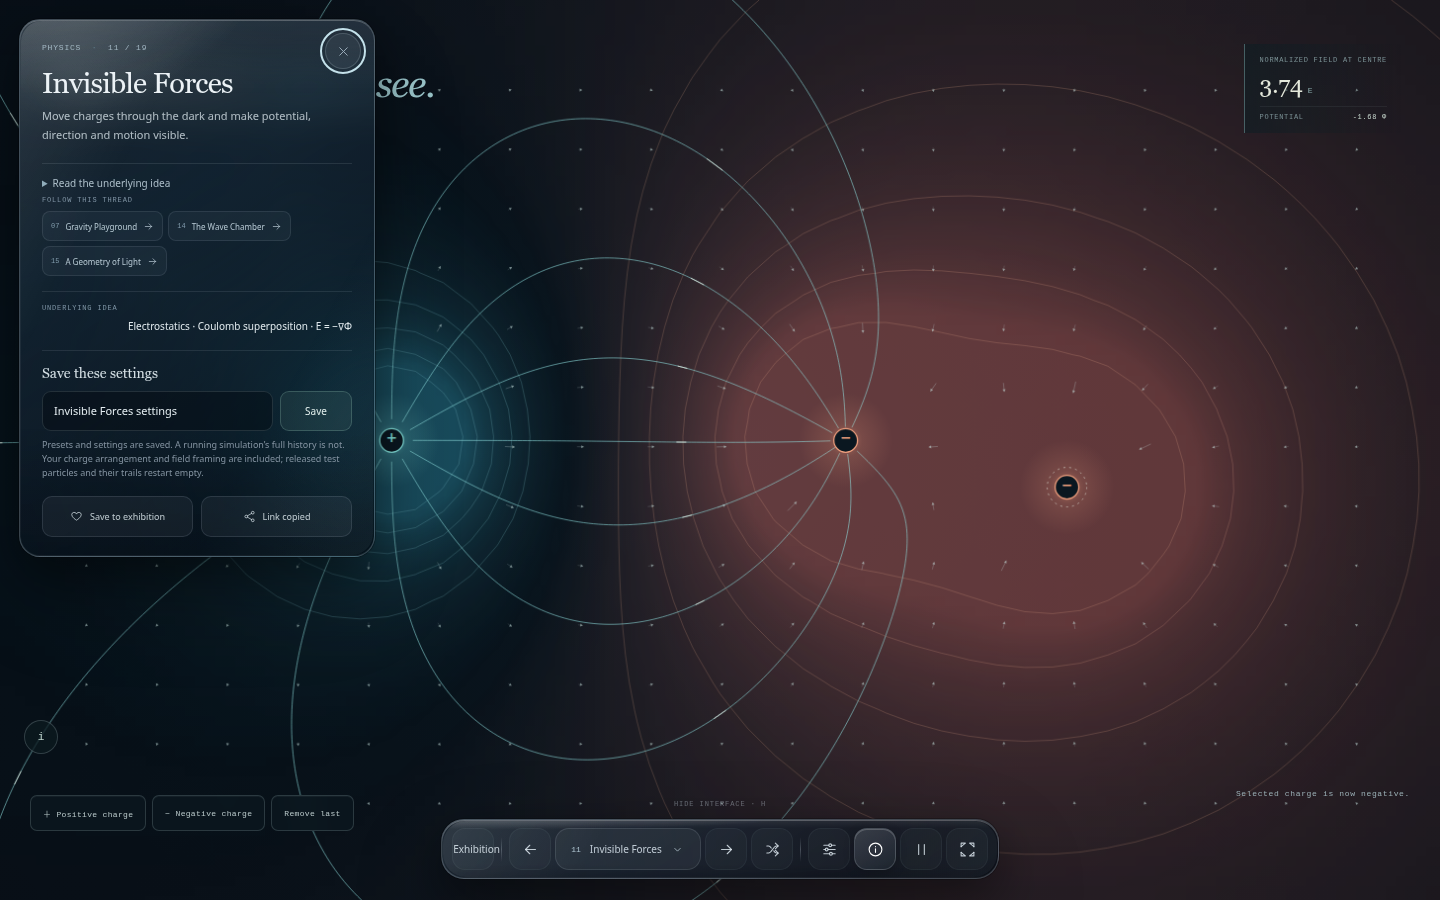
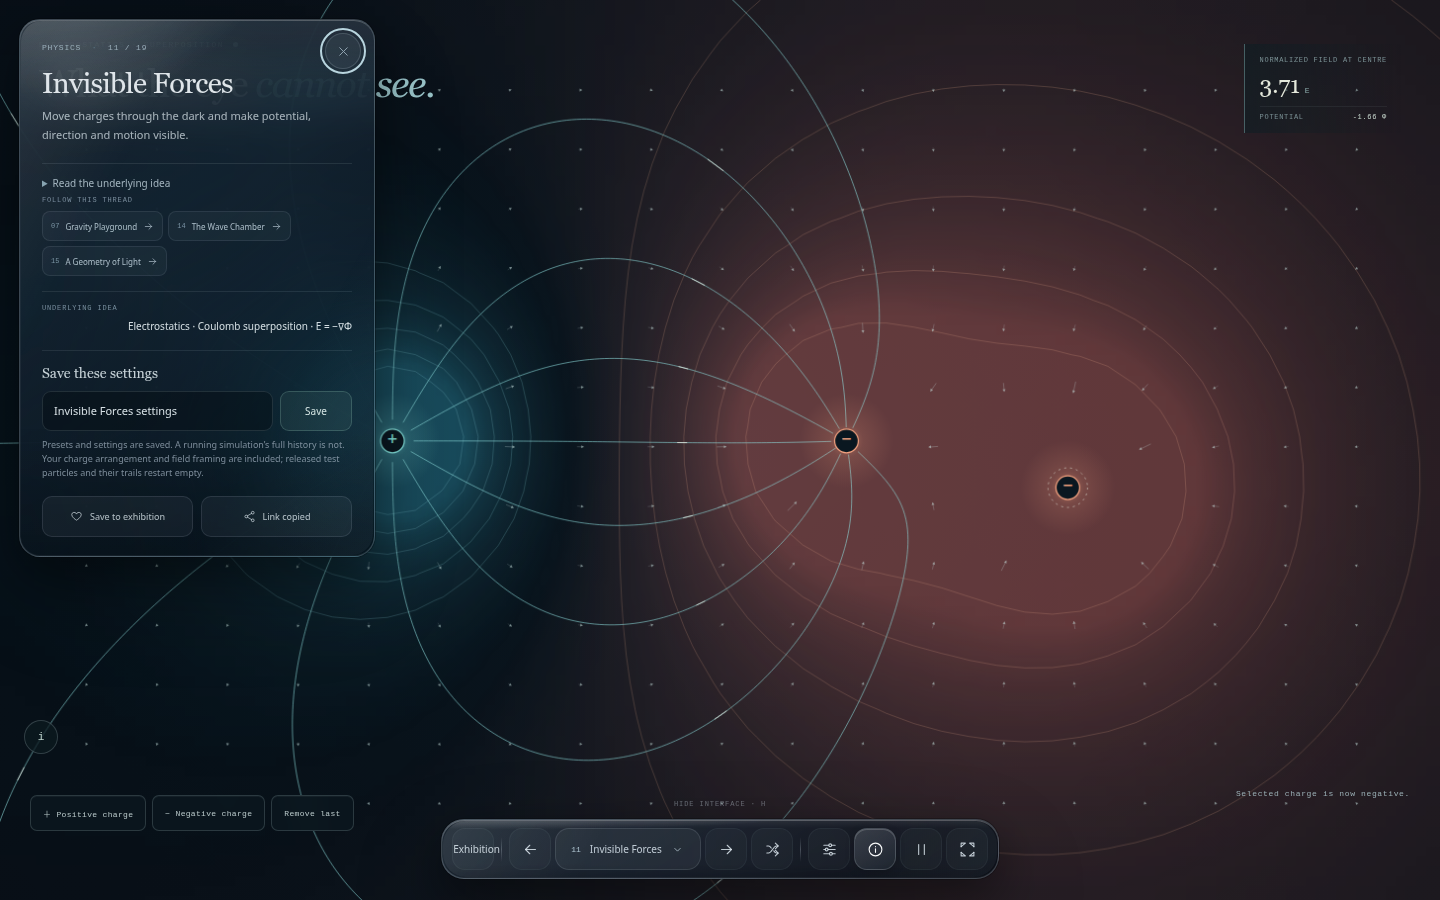
Replay edited Gravity Playground systems

Changed region(s): [[0.5625, 0.4667, 0.5938, 0.5289], [0.7188, 0.5289, 0.75, 0.56], [0.25, 0.4667, 0.2812, 0.4978]]

diff --git a/src/experiments/GravityPlayground.tsx b/src/experiments/GravityPlayground.tsx
@@ -1,7 +1,8 @@
-import { useEffect, useRef, useState } from 'react'
+import { useEffect, useMemo, useRef, useState } from 'react'
 import type { ExperimentControls } from '../types'
 import { ActionRow, ControlPanel, RangeControl, SelectControl } from '../components/Controls'
 import { useDiscoveryHint } from '../lib/useDiscoveryHint'
+import { MAX_GRAVITY_BODIES, nextGravityBodyId, restoreGravitySnapshot, restoreGravityView, type GravityBodyState } from '../lib/gravityState'
 import { boundedStateNumber, stateChoice } from '../lib/experimentState'
 import { bodyRadius, circularOrbitVelocity, estimateGravityThrowVelocity, gravityEnergy, integrateGravity, pickGravityBodyAtWorld, type CollisionMode, type GravityBody, type GravityPointerSample } from '../simulations/gravity'
 import './ExpandedExhibits.css'
@@ -51,16 +52,31 @@ export default function GravityPlayground({ paused, controlsVisible, stateFromUr
   const [launchSpeed, setLaunchSpeed] = useState(() => boundedStateNumber(stateFromUrl?.launchSpeed, 4, 0.5, 9))
   const [trails, setTrails] = useState(() => stateFromUrl?.trails !== false)
   const [prediction, setPrediction] = useState(() => stateFromUrl?.prediction === true)
+  const restoredGravity = Array.isArray(stateFromUrl?.bodies) ? restoreGravitySnapshot(stateFromUrl.bodies, stateFromUrl.view) : null
+  const restoredView = restoreGravityView(stateFromUrl?.view)
+  const initialBodies = useMemo(() => restoredGravity?.bodies.map((body) => ({ ...body, trail: [] })) ?? makeScene(scene), [])
+  const [bodySnapshot, setBodySnapshot] = useState<GravityBodyState[] | null>(() => restoredGravity?.bodies ?? null)
   const [launchMode, setLaunchMode] = useState(false)
   const [throwMode, setThrowMode] = useState(false)
   const [hovered, setHovered] = useState<number | null>(null)
   const [launchFeedback, setLaunchFeedback] = useState('')
   const [selected, setSelected] = useState<number | null>(null)
-  const [readout, setReadout] = useState({ bodies: 6, energy: '—' })
+  const [readout, setReadout] = useState({ bodies: initialBodies.length, energy: '—' })
   const params = useRef<Params>({ paused, speed, collision, trails, prediction })
   params.current = { paused, speed, collision, trails, prediction }
-  const state = useRef({ bodies: makeScene(scene), width: 0, height: 0, dpr: 1, scale: 70, cameraX: 0, cameraY: 0, raf: 0, last: 0, accumulator: 0, tick: 0, revision:0, pointer: null as GravityPointer | null })
+  const state = useRef({ bodies: initialBodies, width: 0, height: 0, dpr: 1, scale: 70, zoom: restoredView?.zoom ?? 1, cameraX: restoredView?.x ?? 0, cameraY: restoredView?.y ?? 0, raf: 0, last: 0, accumulator: 0, tick: 0, revision:0, pointer: null as GravityPointer | null })
   const view = useRef({ mass, selected, hovered, throwMode }); view.current = { mass, selected, hovered, throwMode }
+  const shareSettings = useRef({ scene, speed, collision, mass, launchSpeed, trails, prediction, bodySnapshot })
+  shareSettings.current = { scene, speed, collision, mass, launchSpeed, trails, prediction, bodySnapshot }
+  const publishShareState = (bodies: GravityBodyState[] | null = shareSettings.current.bodySnapshot) => {
+    const s = state.current, settings = shareSettings.current
+    onShareState({ scene: settings.scene, speed: settings.speed, collision: settings.collision, mass: settings.mass, launchSpeed: settings.launchSpeed, trails: settings.trails, prediction: settings.prediction, view: { x: s.cameraX, y: s.cameraY, zoom: s.zoom }, ...(bodies === null ? {} : { bodies }) })
+  }
+  const captureBodies = () => {
+    const bodies = state.current.bodies.map(({ id, x, y, vx, vy, mass: bodyMass, color }) => ({ id, x, y, vx, vy, mass: bodyMass, color }))
+    setBodySnapshot(bodies)
+    publishShareState(bodies)
+  }
 
   useEffect(() => {
     if (!import.meta.env.DEV) return
@@ -73,7 +89,7 @@ export default function GravityPlayground({ paused, controlsVisible, stateFromUr
     return () => { delete (window as Window & { __ARMSTEEL_GRAVITY__?: typeof inspect }).__ARMSTEEL_GRAVITY__ }
   }, [])
 
-  useEffect(() => { onShareState({ scene, speed, collision, mass, launchSpeed, trails, prediction }) }, [scene, speed, collision, mass, launchSpeed, trails, prediction, onShareState])
+  useEffect(() => { publishShareState() }, [scene, speed, collision, mass, launchSpeed, trails, prediction, bodySnapshot, onShareState])
   const resetScene = () => {
     const s = state.current
     s.bodies = makeScene(scene)
@@ -83,6 +99,9 @@ export default function GravityPlayground({ paused, controlsVisible, stateFromUr
     s.cameraX = 0
     s.cameraY = 0
     s.scale = s.width && s.height ? Math.min(s.width, s.height) / 10.4 : 70
+    s.zoom = 1
+    setBodySnapshot(null)
+    publishShareState(null)
     setSelected(null)
     setReadout({ bodies: s.bodies.length, energy: '—' })
     setLaunchMode(false)
@@ -91,14 +110,16 @@ export default function GravityPlayground({ paused, controlsVisible, stateFromUr
   const launchCircularBody = () => {
     const s = state.current
     const source = s.bodies.reduce<GravityBody | null>((largest, body) => !largest || body.mass > largest.mass ? body : largest, null)
-    if (s.bodies.length >= 32) { setLaunchFeedback('This scene is full. Reset it to launch another body.'); return }
+    if (s.bodies.length >= MAX_GRAVITY_BODIES) { setLaunchFeedback('This scene is full. Reset it to launch another body.'); return }
     const child = { id: 0, x: 0, y: 0, vx: 0, vy: 0, mass, color: '' }
     const radius = source ? Math.max(bodyRadius(source) + bodyRadius(child) + .16, source.mass / (22 * 22) * 1.1) : 1
     const x = source ? source.x + radius : 0, y = source?.y ?? 0
     const velocity = source ? circularOrbitVelocity(source, x, y) : { vx: launchSpeed, vy: 0 }
-    const body = { id: nextId++, x, y, ...velocity, mass, color: planetColors[nextId % planetColors.length], trail: [] }
+    const id = nextGravityBodyId(s.bodies, nextId); nextId = id + 1
+    const body = { id, x, y, ...velocity, mass, color: planetColors[id % planetColors.length], trail: [] }
     s.bodies.push(body); s.revision++; setSelected(body.id)
     setReadout({ bodies: s.bodies.length, energy: gravityEnergy(s.bodies).toFixed(1) })
+    captureBodies()
     setLaunchFeedback('Circular orbit launched around the most massive body.')
     hint.dismiss()
   }
@@ -109,13 +130,13 @@ export default function GravityPlayground({ paused, controlsVisible, stateFromUr
     let stars: { x: number; y: number; r: number; a: number }[] = []
     const resize = () => {
       const rect = canvas.getBoundingClientRect(); if (!rect.width || !rect.height) return
-      const oldW = s.width, oldH = s.height
       s.width = rect.width; s.height = rect.height
       s.dpr = Math.min(devicePixelRatio || 1, 1.6, Math.sqrt(2_200_000 / (rect.width * rect.height)))
       canvas.width = Math.max(1, Math.floor(rect.width * s.dpr)); canvas.height = Math.max(1, Math.floor(rect.height * s.dpr))
       ctx.setTransform(s.dpr, 0, 0, s.dpr, 0, 0)
-      if (oldW && oldH) s.scale *= Math.min(s.width, s.height) / Math.min(oldW, oldH)
-      else s.scale = Math.min(s.width, s.height) / 10.4
+      const baseScale = Math.min(s.width, s.height) / 10.4
+      s.zoom = clamp(s.zoom, 20 / baseScale, 480 / baseScale)
+      s.scale = baseScale * s.zoom
       let seed = 987
       const random = () => { seed = (seed * 16807) % 2147483647; return seed / 2147483647 }
       stars = Array.from({ length: Math.floor(rect.width * rect.height / 6200) }, () => ({ x: random() * s.width, y: random() * s.height, r: .35 + random() * .8, a: .14 + random() * .42 }))
@@ -219,7 +240,12 @@ export default function GravityPlayground({ paused, controlsVisible, stateFromUr
     return () => { cancelAnimationFrame(s.raf); resizeObserver.disconnect() }
   }, [])
 
-  useEffect(() => { resetScene() }, [scene])
+  const mountedScene = useRef(scene)
+  useEffect(() => {
+    if (mountedScene.current === scene) return
+    mountedScene.current = scene
+    resetScene()
+  }, [scene])
 
   const pointerDown = (event: React.PointerEvent<HTMLCanvasElement>) => {
     hint.dismiss()
@@ -268,6 +294,8 @@ export default function GravityPlayground({ paused, controlsVisible, stateFromUr
   const pointerUp = (event: React.PointerEvent<HTMLCanvasElement>) => {
     pointerMove(event)
     const s = state.current, p = s.pointer; if (!p || p.id !== event.pointerId) return
+    let bodyChanged = false
+    let cameraChanged = false
     if (p.mode === 'body') {
       const body = s.bodies.find((item) => item.id === p.bodyId)
       if (body) {
@@ -279,6 +307,7 @@ export default function GravityPlayground({ paused, controlsVisible, stateFromUr
         } else setLaunchFeedback('Repositioned · original momentum kept.')
       }
       s.revision++
+      bodyChanged = true
     }
     if (p.mode === 'launch') {
       const dragged = Math.hypot(p.worldX - p.startWorldX, p.worldY - p.startWorldY) > .08
@@ -291,15 +320,20 @@ export default function GravityPlayground({ paused, controlsVisible, stateFromUr
       const orbital = source ? circularOrbitVelocity(source, x, y) : { vx: launchSpeed, vy: 0 }
       const vx = dragged ? clamp((p.worldX - p.startWorldX) * launchSpeed, -22, 22) : orbital.vx
       const vy = dragged ? clamp((p.worldY - p.startWorldY) * launchSpeed, -22, 22) : orbital.vy
-      if (s.bodies.length < 32) {
-        const body = { id: nextId++, x, y, vx, vy, mass, color: planetColors[nextId % planetColors.length], trail: [] }
+      if (s.bodies.length < MAX_GRAVITY_BODIES) {
+        const id = nextGravityBodyId(s.bodies, nextId); nextId = id + 1
+        const body = { id, x, y, vx, vy, mass, color: planetColors[id % planetColors.length], trail: [] }
         s.bodies.push(body); s.revision++; setSelected(body.id); setReadout({ bodies: s.bodies.length, energy: gravityEnergy(s.bodies).toFixed(1) })
         setLaunchFeedback(dragged ? 'Custom velocity released · select the body to refine its orbit.' : 'Circular orbit launched around the most massive body.')
+        bodyChanged = true
       } else setLaunchFeedback('This scene is full. Reset it to launch another body.')
       setLaunchMode(false)
     }
+    if (p.mode === 'pan') cameraChanged = true
     s.pointer = null
     if (event.currentTarget.hasPointerCapture(event.pointerId)) event.currentTarget.releasePointerCapture(event.pointerId)
+    if (bodyChanged) captureBodies()
+    if (cameraChanged) publishShareState()
   }
   const cancelPointer = (pointerId: number) => {
     const s = state.current, p = s.pointer
@@ -309,6 +343,7 @@ export default function GravityPlayground({ paused, controlsVisible, stateFromUr
       if (body) { body.x = p.originalX; body.y = p.originalY; body.vx = p.originalVx; body.vy = p.originalVy }
       s.revision++
     }
+    if (p.mode === 'pan') publishShareState()
     if (p.mode === 'launch') setLaunchMode(false)
     s.pointer = null
     const canvas = canvasRef.current
@@ -318,15 +353,18 @@ export default function GravityPlayground({ paused, controlsVisible, stateFromUr
     event.preventDefault(); const s = state.current, rect = canvasRef.current?.getBoundingClientRect(); if (!rect) return; const x = event.clientX - rect.left, y = event.clientY - rect.top
     const beforeX = s.cameraX + (x - s.width / 2) / s.scale, beforeY = s.cameraY + (y - s.height / 2) / s.scale
     s.scale = clamp(s.scale * Math.exp(-event.deltaY * .001), 20, 480)
+    s.zoom = s.scale / (Math.min(s.width, s.height) / 10.4)
     s.cameraX = beforeX - (x - s.width / 2) / s.scale; s.cameraY = beforeY - (y - s.height / 2) / s.scale
+    publishShareState()
   }
   useEffect(() => { const canvas = canvasRef.current; if (!canvas) return; canvas.addEventListener('wheel', wheel, { passive: false }); return () => canvas.removeEventListener('wheel', wheel) }, [])
   const selectedBody = state.current.bodies.find((body) => body.id === selected)
-  const adjustSelected = (key: 'mass' | 'vx' | 'vy', value: number) => { const body=state.current.bodies.find((item)=>item.id===selected);if(!body)return;body[key]=value;state.current.revision++;setReadout({bodies:state.current.bodies.length,energy:gravityEnergy(state.current.bodies).toFixed(1)}) }
+  const adjustSelected = (key: 'mass' | 'vx' | 'vy', value: number) => { const body=state.current.bodies.find((item)=>item.id===selected);if(!body)return;body[key]=value;state.current.revision++;setReadout({bodies:state.current.bodies.length,energy:gravityEnergy(state.current.bodies).toFixed(1)});captureBodies() }
   const removeSelected = () => {
     if (selected === null) return
     state.current.bodies = state.current.bodies.filter((body) => body.id !== selected)
     state.current.revision++; setSelected(null); setReadout({ bodies: state.current.bodies.length, energy: gravityEnergy(state.current.bodies).toFixed(1) })
+    captureBodies()
     setLaunchFeedback('Selected body removed.')
   }
 

diff --git a/src/App.tsx b/src/App.tsx
@@ -573,7 +573,7 @@ function ExhibitExperience({ experiment }: { experiment: ExperimentDefinition })
         <label id="saved-experiment-form-heading" htmlFor="saved-experiment-name">Save these settings</label>
         <div><input id="saved-experiment-name" value={savedName} maxLength={64} onChange={(event) => { setSavedName(event.target.value); setSavedMessage('') }} aria-describedby="saved-experiment-note" />
           <button type="button" onClick={saveCurrentSettings} disabled={!savedName.trim()}>Save</button></div>
-        <p id="saved-experiment-note">Presets and settings are saved. A running simulation’s full history is not.{experiment.id === 'network' ? ' The message is included, so avoid private text.' : ''}{experiment.id === 'machine' ? ' Your edited assembly is included when you save or share; avoid private comments.' : ''}{experiment.id === 'logic' ? ' Your gates, wires, switch values and build goal are included; signal values are recalculated.' : ''}{experiment.id === 'forces' ? ' Your charge arrangement and field framing are included; released test particles and their trails restart empty.' : ''}{experiment.id === 'automata' ? ' Your last drawn cell arrangement is included and restarts at generation zero; cell ages and trails are not.' : ''}{experiment.id === 'reaction' ? ' The selected start pattern and seed are included; painted marks and evolved chemistry start fresh.' : ''}{experiment.id === 'fluid' ? ' The starting flow and settings are included; hand-drawn strokes and evolved dye are not.' : ''}</p>
+        <p id="saved-experiment-note">Presets and settings are saved. A running simulation’s full history is not.{experiment.id === 'network' ? ' The message is included, so avoid private text.' : ''}{experiment.id === 'machine' ? ' Your edited assembly is included when you save or share; avoid private comments.' : ''}{experiment.id === 'gravity' ? ' A changed system’s body positions, velocities and masses replay from the last edit; trails and collision history restart.' : ''}{experiment.id === 'logic' ? ' Your gates, wires, switch values and build goal are included; signal values are recalculated.' : ''}{experiment.id === 'forces' ? ' Your charge arrangement and field framing are included; released test particles and their trails restart empty.' : ''}{experiment.id === 'automata' ? ' Your last drawn cell arrangement is included and restarts at generation zero; cell ages and trails are not.' : ''}{experiment.id === 'reaction' ? ' The selected start pattern and seed are included; painted marks and evolved chemistry start fresh.' : ''}{experiment.id === 'fluid' ? ' The starting flow and settings are included; hand-drawn strokes and evolved dye are not.' : ''}</p>
         {savedMessage && <p className="saved-experiment-status" role="status">{savedMessage}</p>}
       </section>
       <div className="info-actions">

diff --git a/src/lib/gravityState.ts b/src/lib/gravityState.ts
@@ -1,0 +1,44 @@
+import type { GravityBody } from '../simulations/gravity'
+
+export type GravityBodyState = Pick<GravityBody, 'id' | 'x' | 'y' | 'vx' | 'vy' | 'mass' | 'color'>
+export type GravityView = { x: number; y: number; zoom: number }
+export type GravitySnapshot = { bodies: GravityBodyState[]; view: GravityView }
+
+export const MAX_GRAVITY_BODIES = 32
+const MAX_POSITION = 1_000_000
+const MAX_VIEW_ZOOM = 100
+
+const isRecord = (value: unknown): value is Record<string, unknown> => value !== null && typeof value === 'object' && (Object.getPrototypeOf(value) === Object.prototype || Object.getPrototypeOf(value) === null)
+const finiteWithin = (value: unknown, limit: number): value is number => typeof value === 'number' && Number.isFinite(value) && Math.abs(value) <= limit
+
+export function restoreGravityView(value: unknown): GravityView | null {
+  if (!isRecord(value) || !finiteWithin(value.x, MAX_POSITION) || !finiteWithin(value.y, MAX_POSITION)) return null
+  if (typeof value.zoom !== 'number' || !Number.isFinite(value.zoom) || value.zoom < 0.01 || value.zoom > MAX_VIEW_ZOOM) return null
+  return { x: value.x, y: value.y, zoom: value.zoom }
+}
+
+/** Validate a finite starting scene before any imported values reach the N-body integrator. */
+export function restoreGravitySnapshot(bodiesValue: unknown, viewValue: unknown): GravitySnapshot | null {
+  if (!Array.isArray(bodiesValue) || bodiesValue.length > MAX_GRAVITY_BODIES) return null
+  const view = restoreGravityView(viewValue)
+  if (!view) return null
+  const ids = new Set<number>()
+  const bodies: GravityBodyState[] = []
+  for (const value of bodiesValue) {
+    if (!isRecord(value) || !Number.isSafeInteger(value.id) || (value.id as number) < 1 || (value.id as number) > 1_000_000 || ids.has(value.id as number)) return null
+    if (!finiteWithin(value.x, MAX_POSITION) || !finiteWithin(value.y, MAX_POSITION)) return null
+    if (!finiteWithin(value.vx, 35) || !finiteWithin(value.vy, 35)) return null
+    if (typeof value.mass !== 'number' || !Number.isFinite(value.mass) || value.mass < 0.05 || value.mass > 1200) return null
+    if (typeof value.color !== 'string' || !/^#[0-9a-fA-F]{6}$/.test(value.color)) return null
+    ids.add(value.id as number)
+    bodies.push({ id: value.id as number, x: value.x, y: value.y, vx: value.vx, vy: value.vy, mass: value.mass, color: value.color })
+  }
+  return { bodies, view }
+}
+
+export function nextGravityBodyId(bodies: readonly Pick<GravityBody, 'id'>[], preferred = 20): number {
+  const ids = new Set(bodies.map((body) => body.id))
+  let candidate = Number.isSafeInteger(preferred) && preferred > 0 && preferred <= 1_000_000 ? preferred : 1
+  while (ids.has(candidate)) candidate = candidate === 1_000_000 ? 1 : candidate + 1
+  return candidate
+}

diff --git a/src/experiments/InvisibleForces.tsx b/src/experiments/InvisibleForces.tsx
@@ -47,12 +47,7 @@ export default function InvisibleForces({ paused, controlsVisible, stateFromUrl,
   const state = useRef(initialEngineState)
   const parameters = useRef({ paused, showPotential, showLines, showParticles, fieldScale, selectedChargeId }); parameters.current = { paused, showPotential, showLines, showParticles, fieldScale, selectedChargeId }
   const [sceneRevision, setSceneRevision] = useState(0)
-  const cameraShareTimer = useRef<number | null>(null)
   const markSceneChanged = () => setSceneRevision((revision) => revision + 1)
-  const scheduleCameraShare = () => {
-    if (cameraShareTimer.current !== null) window.clearTimeout(cameraShareTimer.current)
-    cameraShareTimer.current = window.setTimeout(() => { cameraShareTimer.current = null; markSceneChanged() }, 180)
-  }
   useEffect(() => {
     const s = state.current
     const charges = s.charges.map(({ x, y, q }) => ({ x, y, q }))
@@ -176,9 +171,9 @@ export default function InvisibleForces({ paused, controlsVisible, stateFromUrl,
   }
   const wheel = (event: WheelEvent) => {
     event.preventDefault(); const canvas = canvasRef.current; if (!canvas) return; const s = state.current, rect = canvas.getBoundingClientRect(), x = event.clientX - rect.left, y = event.clientY - rect.top, beforeX = s.cameraX + (x - s.width / 2) / s.scale, beforeY = s.cameraY + (y - s.height / 2) / s.scale
-    s.scale = clamp(s.scale * Math.exp(-event.deltaY * .001), Math.min(s.width,s.height)/14, Math.min(s.width,s.height)*1.4); s.zoom = s.scale / (Math.min(s.width, s.height) / 5.4); s.cameraX = beforeX - (x - s.width / 2) / s.scale; s.cameraY = beforeY - (y - s.height / 2) / s.scale; scheduleCameraShare()
+    s.scale = clamp(s.scale * Math.exp(-event.deltaY * .001), Math.min(s.width,s.height)/14, Math.min(s.width,s.height)*1.4); s.zoom = s.scale / (Math.min(s.width, s.height) / 5.4); s.cameraX = beforeX - (x - s.width / 2) / s.scale; s.cameraY = beforeY - (y - s.height / 2) / s.scale; markSceneChanged()
   }
-  useEffect(() => { const canvas = canvasRef.current; if (!canvas) return; canvas.addEventListener('wheel', wheel, { passive: false }); return () => { canvas.removeEventListener('wheel', wheel); if (cameraShareTimer.current !== null) window.clearTimeout(cameraShareTimer.current) } }, [])
+  useEffect(() => { const canvas = canvasRef.current; if (!canvas) return; canvas.addEventListener('wheel', wheel, { passive: false }); return () => canvas.removeEventListener('wheel', wheel) }, [])
   const selectedCharge = state.current.charges.find((charge) => charge.id === selectedChargeId)
   const adjustChargeStrength = (value: number) => {
     setChargeStrength(value)
